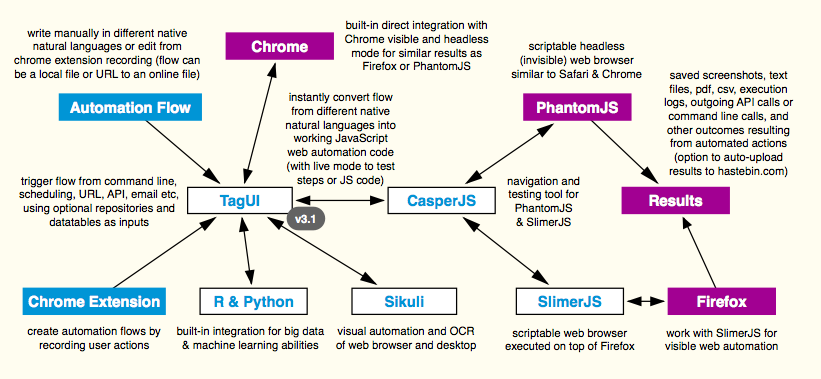
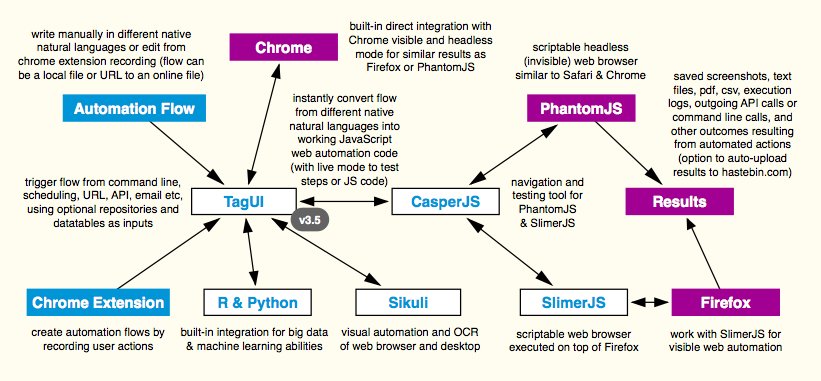
prepping for v3.5 release

diff --git a/README.md b/README.md
@@ -1,4 +1,4 @@
-<img src="https://raw.githubusercontent.com/tebelorg/TagUI/master/src/media/tebel_icon.png" height="111" align="right">
+<img src="https://raw.githubusercontent.com/kelaberetiv/TagUI/master/src/media/tebel_icon.png" height="111" align="right">
 
 # TagUI
 
@@ -7,6 +7,7 @@
 ***TagUI is now maintained by [AI Singapore (aisingapore.org)](https://www.aisingapore.org), a government-funded initiative to build local artificial intelligence capabilities. The intention is to add AI capabilities to TagUI while keeping it open-source and free to use. To get started, check out above hands-on tutorial, Prezi slides, or recorded video at FOSSASIA 2018.***
 
 ### FEATURES
+- RPA / CLI tool for process automation
 - automate Chrome visibly or headlessly
 - visual automation of websites and desktop
 - write in 20+ human languages & JavaScript
@@ -17,7 +18,7 @@
 # Why This
 The goal of UI (user interface) automation is to reproduce cognitive interactions that you have with websites or your desktop, so that your computer can do it for you, base on your schedule or conditions. TagUI helps you rapidly automate your repetitive or time-critical tasks - use cases include process automation, data acquisition and testing of web apps.
 
-Read on for more info or jump right into the [flow samples section](https://github.com/tebelorg/TagUI#flow-samples) to see examples of TagUI automation in natural-language-like syntax. This is a full-feature and free open-source tool, so there's nothing to upgrade to or any paid subscription. To feedback suggestions or bugs, [raise an issue](https://github.com/tebelorg/TagUI/issues) or email ksoh@aisingapore.org.
+Read on for more info or jump right into the [flow samples section](https://github.com/kelaberetiv/TagUI#flow-samples) to see examples of TagUI automation in natural-language-like syntax. This is a full-feature and free open-source tool, so there's nothing to upgrade to or any paid subscription. To feedback suggestions or bugs, [raise an issue](https://github.com/kelaberetiv/TagUI/issues) or email ksoh@aisingapore.org.
 
 ### HOW IT WORKS
 TagUI converts your intentions in different human languages into lines of working JavaScript code that perform UI automation. Under the hood, it uses Chrome DevTools Protocol, Sikuli, CasperJS, PhantomJS & SlimerJS.
@@ -35,21 +36,23 @@ download https://admin.typeform.com/xxx to report.csv
   <summary>
     Click to show powerful and user-friendly features of TagUI that come right out of the box
   </summary>
-  
-  For example, TagUI will instantly convert the automation flow above into 100+ lines of JavaScript code and automatically perform the steps to download a report. Conditions can also be written in natural language for making decisions or checking webpage. No further backend coding or step definition is required. This makes it easy for rapid prototyping, deployment and maintenance of UI automation, whether you are a developer or not. The language engine supports over 20 languages and can be modified or extended easily by users to improve accuracy or add more languages.
 
-  The automation flow can be triggered from scheduling, command line (in natural language), API URL, email etc. Everything happens headlessly in the background without seeing any web browser, so that you can continue using the computer or server uninterrupted. Running on a visible web browser is also supported, using Chrome or Firefox browser (see chrome or firefox option below). API or command calls can be made with a single line to integrate with other services or apps. Continuous integration with CI/CD tools is possible using CasperJS framework and TagUI's Chrome integration.
+  - For example, TagUI will instantly convert the automation flow above into 100+ lines of JavaScript code and automatically perform the steps to download a report. Conditions can also be written in natural language for making decisions or checking webpage. No further backend coding or step definition is required. This makes it easy for rapid prototyping, deployment and maintenance of UI automation, whether you are a developer or not. The language engine supports over 20 languages and can be modified or extended easily by users to improve accuracy or add more languages.
 
-  If you know JavaScript and want to be more expressive, you can even use JavaScript directly in the flow. If not, you will still enjoy friendly but powerful features such as repositories to store your reusable objects, flexible datatables for batch automation, and a Chrome extension which creates automation flows by recording your actions. For rapid prototyping, there's also an interactive live mode for trying out TagUI steps or JavaScript code in real-time. TagUI has built-in integration with Chrome / headless Chrome directly, which also works in live mode.
+  - The automation flow can be triggered from scheduling, command line (in natural language), API URL, email etc. Everything happens headlessly in the background without seeing any web browser, so that you can continue using the computer or server uninterrupted. Running on a visible web browser is also supported, using Chrome or Firefox browser (see chrome or firefox option below). API or command calls can be made with a single line to integrate with other services or apps. Continuous integration with CI/CD tools is possible using CasperJS framework and TagUI's Chrome integration.
 
-  There is automatic waiting for web elements to appear + error-checking + nesting of JavaScript code blocks. Not forgetting the option to run automation flows hosted online or auto-upload run results online for sharing. TagUI also supports visual automation of website and desktop through built-in integration with Sikuli. Instead of using element identifiers, images can be used to identify user interface elements to interact with. TagUI has native integrations with R and Python for big data and machine learning capabilities. R and Python are popular languages with many frameworks and packages in this space.
+  - If you know JavaScript and want to be more expressive, you can even use JavaScript directly in the flow. If not, you will still enjoy friendly but powerful features such as repositories to store your reusable objects, flexible datatables for batch automation, and a Chrome extension which creates automation flows by recording your actions. For rapid prototyping, there's also an interactive live mode for trying out TagUI steps or JavaScript code in real-time. TagUI has built-in integration with Chrome / headless Chrome directly, which also works in live mode.
+
+  - There is automatic waiting for web elements to appear + error-checking + nesting of JavaScript code blocks. Not forgetting the option to run automation flows hosted online or auto-upload run results online for sharing. TagUI also supports visual automation of website and desktop through built-in integration with Sikuli. Instead of using element identifiers, images can be used to identify user interface elements to interact with. TagUI has native integrations with R and Python for big data and machine learning capabilities. R and Python are popular languages with many frameworks and packages in this space.
   
 </details>
   
 # Set Up
-TagUI is in v3.1 - it unzips and runs on macOS, Linux, Windows ([link to release notes](https://github.com/tebelorg/TagUI/releases))
+TagUI is in v3.5 - it unzips and runs on macOS, Linux, Windows ([link to release notes](https://github.com/kelaberetiv/TagUI/releases))
 
-Tip - for [cutting edge](https://github.com/tebelorg/TagUI/compare/v3.1.0...master) version, download [from here](https://github.com/tebelorg/TagUI/archive/master.zip) to overwrite your packaged installation
+***Note - TagUI packaged installation is in the process of being updated from v3.1 to v3.5.***
+
+Tip - for [cutting edge](https://github.com/kelaberetiv/TagUI/compare/v3.5.0...master) version, download [from here](https://github.com/kelaberetiv/TagUI/archive/master.zip) to overwrite your packaged installation
 
 ### PACKAGED INSTALLATION
 Easiest way to use TagUI - no setup is needed, in most environments all required dependencies are packaged in.
@@ -65,7 +68,7 @@ Optional - configure web browser settings in tagui_config.txt, such as browser r
     Click to show potential exceptions that can happen in some environments and their solutions
   </summary>
   
-On some Windows computers, if you see 'MSVCR110.dll is missing' error, install [this from Microsoft website](https://www.microsoft.com/en-us/download/details.aspx?id=30679) (choose vcredist_x86.exe) - this file is required to run the PHP engine. On some newer macOS versions, if you get a 'dyld: Library not loaded' error, [install OpenSSL in this way](https://github.com/kelaberetiv/TagUI/issues/86#issuecomment-372045221). For some flavours of Linux (Ubuntu for example), which do not have PHP pre-installed, google how to install PHP accordingly (Ubuntu for example, apt-get install php).
+  On some Windows computers, if you see 'MSVCR110.dll is missing' error, install [this from Microsoft website](https://www.microsoft.com/en-us/download/details.aspx?id=30679) (choose vcredist_x86.exe) - this file is required to run the PHP engine. On some newer macOS versions, if you get a 'dyld: Library not loaded' error, [install OpenSSL in this way](https://github.com/kelaberetiv/TagUI/issues/86#issuecomment-372045221). For some flavours of Linux (Ubuntu for example), which do not have PHP pre-installed, google how to install PHP accordingly (Ubuntu for example, apt-get install php).
   
 </details>
 
@@ -91,10 +94,19 @@ On some Windows computers, if you see 'MSVCR110.dll is missing' error, install [
 ./tagui flow_filename option(s) for macOS/Linux, tagui flow_filename option(s) for Windows
 ```
 - Flow filename (and its .csv) can be a local file or the URL of an online file
-- Automation flow filename can have no extension, .gui or .txt file extension
+- Automation flow filename can have no extension, .txt or .js or .tagui extension
 - Objects, keywords, datatables can be defined in flow_filename.csv (optional)
 
-Tip - to run tagui from anywhere in macOS/Linux, use ln -sf /full_path/tagui/src/tagui /usr/local/bin/tagui to create symbolic link. to run tagui from anywhere in Windows, add tagui/src [folder to path](http://lmgtfy.com/?q=add+to+path+in+windows). then tagui will be accessible from any folder. if you have issue running visible automation using Firefox/SlimerJS [check this setting](https://docs.slimerjs.org/current/installation.html#using-unstable-version-or-very-old-versions-of-firefox).
+<details>
+  <summary>
+    Click to show info on automation log files, and how to run tagui from any directory
+  </summary>
+  
+  After each automation run, a .log file will be created to store output of the execution, a .js file is the generated JavaScript file, a .raw is the expanded flow after reading in any module sub-scripts that are called in that flow. These files are for user reference purpose and can be helpful in debugging or troubleshooting the automation flow.
+
+  Tip - to run tagui from anywhere in macOS/Linux, use ln -sf /full_path/tagui/src/tagui /usr/local/bin/tagui to create symbolic link. To run tagui from anywhere in Windows, add tagui/src [folder to path](http://lmgtfy.com/?q=add+to+path+in+windows). Then tagui will be accessible from any folder. If you have issue running visible automation using Firefox/SlimerJS [check this setting](https://docs.slimerjs.org/current/installation.html#using-unstable-version-or-very-old-versions-of-firefox).
+  
+</details>
 
 <details>
   <summary>
@@ -134,16 +146,16 @@ Download from [Chrome Web Store](https://chrome.google.com/webstore/detail/tagui
     Click to show details about TagUI Chrome extension and what it can be used for
   </summary>
   
-  TagUI Chrome extension is based on [Resurrectio tool](https://github.com/ebrehault/resurrectio) and records steps such as page navigation, clicking web elements and entering information. To start recording automation flows, click TagUI icon on your Chrome toolbar. Right-click for shortcuts to some TagUI steps, such as capturing webpage screenshot or to note down element identifier.
+  TagUI Chrome extension is based on [Resurrectio tool](https://github.com/ebrehault/resurrectio) and records steps such as page navigation, clicking web elements and entering information. To start recording automation flows, click TagUI icon on your Chrome toolbar. Right-click for shortcuts to some TagUI steps, such as capturing webpage screenshot or to show the element identifier.
 
   The recording is not foolproof (for example, the underlying recording engine cannot capture frames, popup windows or tab key input). It is meant to simplify flow creation with some edits, instead of typing everything manually. [See this video](https://www.youtube.com/watch?v=bFvsc4a8hWQ) for an example of recording sequence of steps, editing for adjustments and playing back the automation.
 
 </details>
 
 ### NATIVE LANGUAGES
-To run TagUI flows in native languages or output flow execution in other languages ([see demo run](https://github.com/tebelorg/TagUI/issues/68#issuecomment-344380657))
-1. set your default flow language with [tagui_language variable](https://github.com/tebelorg/TagUI/blob/master/src/tagui_config.txt) in tagui_config.txt
-2. write automation flow in native language base on [language definition .csv files](https://github.com/tebelorg/TagUI/tree/master/src/languages)
+To run TagUI flows in native languages or output flow execution in other languages ([see demo run](https://github.com/kelaberetiv/TagUI/issues/68#issuecomment-344380657))
+1. set your default flow language with [tagui_language variable](https://github.com/kelaberetiv/TagUI/blob/master/src/tagui_config.txt) in tagui_config.txt
+2. write automation flow in native language base on [language definition .csv files](https://github.com/kelaberetiv/TagUI/tree/master/src/languages)
 3. optionally set tagui_language in flow to any other languages as output language
 
 <details>
@@ -155,7 +167,7 @@ To run TagUI flows in native languages or output flow execution in other languag
   
   TagUI language engine supports over 20 languages and can be modified or extended easily by users to improve accuracy or add more languages. The languages are Bengali, Chinese, English, French, German, Hindi, Hungarian, Indonesian, Italian, Japanese, Korean, Polish, Portuguese, Romanian, Russian, Serbian, Spanish, Tagalog, Tamil, Thai, Vietnamese. This starting set is partly chosen base on the [list of most commonly used languages](https://www.babbel.com/en/magazine/the-10-most-spoken-languages-in-the-world), partly from the countries around where I'm from (Singapore), and partly from countries with a lot of developers.
 
-  If your native language is not in the above list, you can also automate building a new native language definition by using this language [build automation flow](https://github.com/tebelorg/TagUI/blob/master/src/languages/build) (src/languages/build) that self-builds the vocabulary set using Google Translate. To do that, update [build.csv](https://github.com/tebelorg/TagUI/blob/master/src/languages/build.csv) with the languages that you want to build and run `tagui build using chrome` in src/languages folder. Use quiet option to hide the verbose automation output. The generated files are named as their 2-character language codes to prevent overwriting existing language definitions by accident. To use the generated .csv files, rename them to their full language names. See [full list of languages possible](https://cloud.google.com/translate/docs/languages) to be generated by Google Translate.
+  If your native language is not in the above list, you can also automate building a new native language definition by using this language [build automation flow](https://github.com/kelaberetiv/TagUI/blob/master/src/languages/build) (src/languages/build) that self-builds the vocabulary set using Google Translate. To do that, update [build.csv](https://github.com/kelaberetiv/TagUI/blob/master/src/languages/build.csv) with the languages that you want to build and run `tagui build using chrome` in src/languages folder. Use quiet option to hide the verbose automation output. The generated files are named as their 2-character language codes to prevent overwriting existing language definitions by accident. To use the generated .csv files, rename them to their full language names. See [full list of languages possible](https://cloud.google.com/translate/docs/languages) to be generated by Google Translate.
 
   Most of the language definitions are automatically self-built using Google Translate (except english.csv and chinese.csv), and would be wrong without understanding vocabulary used in UI interaction context. Native language users can update the language definition csv themselves and are welcome to submit PRs with correct words to be used. Some languages are very different from English structure (for eg, written from right to left, different order of adjective and noun) and would be impossible to use correctly in TagUI.
 
@@ -183,21 +195,41 @@ TagUI has built-in integration with R - an open-source software environment for 
     Click to show how to use r step in your automation flow to send and receive data from R frameworks
   </summary>
   
-In your automation flow, use the r step followed by the R commands to be executed, separated by `;`. You can then use the `cat()` command in R to output the result you want to be accessible in your automation flow as `r_result` variable. For a super basic example, below steps in your TagUI automation flow will output 3. If the result is JSON data, the JSON object `r_json` will be created for easy access to JSON data elements. If not, `r_json` will be null.
+  In your automation flow, use the r step followed by the R commands to be executed, separated by `;`. You can then use the `cat()` command in R to output the result you want to be accessible in your automation flow as `r_result` variable. For a super basic example, below steps in your TagUI automation flow will output 3. If the result is JSON data, the JSON object `r_json` will be created for easy access to JSON data elements. If not, `r_json` will be null.
+  
+  ```
+  // using r step to denote R code, and getting back output from r_result
+  r a=1;b=2
+  r c=a+b
+  r cat(c)
+  echo r_result
+  
+  // alternatively, you can use r begin and r finish to denote a R code block
+  r begin
+  a=1;b=2
+  c=a+b
+  cat(c)
+  r finish
+  echo r_result
+  
+  // an example of passing dynamically generated variables to R integraton
+  phone = 1234567
+  name = 'donald duck'
+  r_step('phone = ' + phone)
+  r_step('name = "' + name + '"')
 
-```
-r a=1;b=2
-r c=a+b
-r cat(c)
-echo r_result
-```
+  r cat(name)
+  echo r_result
+  r cat(phone)
+  echo r_result
+  ```
 
-You can also use the `source()` command in R to run R scripts. For examples of using R for machine learning, check out this [essentials of machine learning algorithms](https://www.analyticsvidhya.com/blog/2017/09/common-machine-learning-algorithms/) article or this [guerilla guide to machine learning](https://www.kdnuggets.com/2017/05/guerrilla-guide-machine-learning-r.html) video series.
+  You can also use the `source()` command in R to run R scripts. For examples of using R for machine learning, check out this [essentials of machine learning algorithms](https://www.analyticsvidhya.com/blog/2017/09/common-machine-learning-algorithms/) article or this [guerilla guide to machine learning](https://www.kdnuggets.com/2017/05/guerrilla-guide-machine-learning-r.html) video series.
 
 </details>
 
 ### PYTHON INTEGRATION
-TagUI has built-in integration with Python v2.7 - a programming language with many popular frameworks for big data and machine learning. The py step can be used to run commands in Python and retrieve the output of those commands. To use Python integration in TagUI, first [download Python for your OS](https://www.python.org/). macOS and Linux normally come pre-installed with Python. Note that Python v3 is not backward-compatible with Python v2.7, the current and more widely used version.
+TagUI has built-in integration with Python (works out of the box for both v2 & v3) - a programming language with many popular frameworks for big data and machine learning. The py step can be used to run commands in Python and retrieve the output of those commands. To use Python integration in TagUI, first [download Python for your OS](https://www.python.org/). macOS and Linux normally come pre-installed with Python.
 
 <details>
   <summary>
@@ -207,9 +239,29 @@ TagUI has built-in integration with Python v2.7 - a programming language with ma
   In your automation flow, use the py step followed by the Python commands to be executed, separated by `;`. You can then use the `print` command in Python to output the result you want to be accessible in your automation flow as `py_result` variable. For a super basic example, below steps in your TagUI automation flow will output 3. If the result is JSON data, the JSON object `py_json` will be created for easy access to JSON data elements. If not, `py_json` will be null.
 
   ```
+  // using py step to denote Python code, and getting back output from py_result
   py a=1;b=2
   py c=a+b
-  py print c
+  py print(c)
+  echo py_result
+  
+  // alternatively, you can use py begin and py finish to denote a Python code block
+  py begin
+  a=1;b=2
+  c=a+b
+  print(c)
+  py finish
+  echo py_result
+  
+  // an example of passing dynamically generated variables to Python integraton
+  phone = 1234567
+  name = 'donald duck'
+  py_step('phone = ' + phone)
+  py_step('name = "' + name + '"')
+
+  py print(name)
+  echo py_result
+  py print(phone)
   echo py_result
   ```
   You can also use the `execfile()` command in Python to run Python scripts. For examples of using Python for machine learning, check out this [essentials of machine learning algorithms](https://www.analyticsvidhya.com/blog/2017/09/common-machine-learning-algorithms/) article or this article on [Python deep learning frameworks](https://www.kdnuggets.com/2017/02/python-deep-learning-frameworks-overview.html).
@@ -226,35 +278,35 @@ TagUI scripts are already in natural-language-like syntax to convert to JavaScri
   
   The commands erina (macOS/Linux) and erina.cmd (Windows) can be renamed to some other name you like. The commands can be set up in the same way as the tagui / tagui.cmd above to be accessible from any folder. The command basically interprets this general syntax `erina single-word-action fillers options/parameters fillers single-or-multi-word-context` to call run the corresponding automation flow `action_context` with `options/parameters`.
 
-  Also, adding `using chrome` / `using headless` / `using firefox` at the end will let it run using the respective browsers. The default location where automation flows are searched for is in tagui/flows folder and can be changed in tagui_helper.php. Filler words (is, are, was, were, my, me) are ignored as they don't convey important information ([more design info](https://github.com/tebelorg/TagUI/issues/44#issuecomment-321108786)).
+  Also, adding `using chrome` / `using headless` / `using firefox` at the end will let it run using the respective browsers. The default location where automation flows are searched for is in tagui/flows folder and can be changed in tagui_helper.php. Filler words (is, are, was, were, my, me) are ignored as they don't convey important information ([more design info](https://github.com/kelaberetiv/TagUI/issues/44#issuecomment-321108786)).
 
 </details>
 
 ### FLOW SAMPLES
-Following automation flow samples ([tagui/src/samples folder](https://github.com/tebelorg/TagUI/tree/master/src/samples)) are included with TagUI
+Following automation flow samples ([tagui/src/samples folder](https://github.com/kelaberetiv/TagUI/tree/master/src/samples)) are included with TagUI
 
 Flow Sample |Purpose
 :-----------|:------
-[1_yahoo](https://github.com/tebelorg/TagUI/blob/master/src/samples/1_yahoo)|searches github on Yahoo and captures screenshot of results
-[2_twitter](https://github.com/tebelorg/TagUI/blob/master/src/samples/2_twitter)|goes to a Twitter page and saves some profile information
-[3_github](https://github.com/tebelorg/TagUI/blob/master/src/samples/3_github)|goes to a GitHub page and downloads the repository file
-[4_conditions](https://github.com/tebelorg/TagUI/blob/master/src/samples/4_conditions)|goes through examples of using conditions in natural language
-[5_repositories](https://github.com/tebelorg/TagUI/blob/master/src/samples/5_repositories)|shows using repositories on Russian social media site VK.com
-[6_datatables](https://github.com/tebelorg/TagUI/tree/master/src/samples/6_datatables)|set of flows uses datatables to retrieve and act on GitHub info
-[7_testing](https://github.com/tebelorg/TagUI/blob/master/src/samples/7_testing)|shows how to use check step assertions for CI/CD integration
-[8_hastebin](https://github.com/tebelorg/TagUI/blob/master/src/samples/8_hastebin)|used by upload option to upload flow result to hastebin.com
-[9_misc](https://github.com/tebelorg/TagUI/blob/master/src/samples/9_misc)|shows how to use steps popup, frame, dom, js, { and } block
+[1_yahoo](https://github.com/kelaberetiv/TagUI/blob/master/src/samples/1_yahoo)|searches github on Yahoo and captures screenshot of results
+[2_twitter](https://github.com/kelaberetiv/TagUI/blob/master/src/samples/2_twitter)|goes to a Twitter page and saves some profile information
+[3_github](https://github.com/kelaberetiv/TagUI/blob/master/src/samples/3_github)|goes to a GitHub page and downloads the repository file
+[4_conditions](https://github.com/kelaberetiv/TagUI/blob/master/src/samples/4_conditions)|goes through examples of using conditions in natural language
+[5_repositories](https://github.com/kelaberetiv/TagUI/blob/master/src/samples/5_repositories)|shows using repositories on Russian social media site VK.com
+[6_datatables](https://github.com/kelaberetiv/TagUI/tree/master/src/samples/6_datatables)|set of flows uses datatables to retrieve and act on GitHub info
+[7_testing](https://github.com/kelaberetiv/TagUI/blob/master/src/samples/7_testing)|shows how to use check step assertions for CI/CD integration
+[8_hastebin](https://github.com/kelaberetiv/TagUI/blob/master/src/samples/8_hastebin)|used by upload option to upload flow result to hastebin.com
+[9_misc](https://github.com/kelaberetiv/TagUI/blob/master/src/samples/9_misc)|shows how to use steps popup, frame, dom, js, { and } block
 
 # Cheat Sheet
 ### AUTOMATION WORKFLOW
 - What happens behind the scenes when you run an automation flow
 
-![TagUI Flowchart](https://raw.githubusercontent.com/tebelorg/TagUI/master/src/media/flowchart.png)
+![TagUI Flowchart](https://raw.githubusercontent.com/kelaberetiv/TagUI/master/src/media/flowchart.png)
 
 ### STEPS DESCRIPTION
 - TagUI auto-waits for a webpage element to appear and interacts with it as soon as it appears
 - Element identifier can be auto-recorded using TagUI Chrome extension, or [found from web browser](https://help.surveygizmo.com/help/how-to-find-element-ids-to-use-with-javascript)
-- Identifiers help to pinpoint which webpage elements you want to interact with ([examples in flow samples](https://github.com/tebelorg/TagUI#flow-samples))
+- Identifiers help to pinpoint which webpage elements you want to interact with ([examples in flow samples](https://github.com/kelaberetiv/TagUI#flow-samples))
 - TagUI auto-selects provided identifier in this order - xpath, css, id, name, class, title, aria-label, text(), href
 
 Basic Step|Parameters (separator in bold)|Purpose
@@ -274,8 +326,9 @@ write|text and variables ***to*** optional filename|append text/variables to fil
 snap|element (page = webpage) ***to*** optional filename|save screenshot to file
 snap (pdf)|page ***to*** filename.pdf (headless Chrome / PhantomJS)|save webpage to basic pdf
 table|element (XPath selector only) ***to*** optional filename.csv|save basic html table to csv
+tagui|relative or absolute filename (see MODULES section)|run another tagui flow
 
-Tip - to use variables where text is expected, '+variable+' can be used. xpath is an expressive way to identify web elements. if you know xpath and use xpath for element identifier, use double quotes for text //\*[@title="Login"]
+Tip - to use variables where text is expected, '+variable+' can be used. XPath is an expressive way to identify web elements. If you know xpath and use xpath for element identifier, use double quotes for text //\*[@title="Login"]
 
 Pro Step|Parameters (separator in bold)|Purpose
 :-------|:-----------------------------|:------
@@ -299,7 +352,21 @@ timeout|time in seconds before step errors out|change auto-wait timeout
 variable_name| = value (for text, put in quotes, use + to concat)|define variable variable_name
 // (on new line)|user comments (ignored during execution)|add user comments
 
-Tip - for headless and visible Chrome, file downloads can be done using normal webpage interaction or specifying the URL as a navigation flow step. for Firefox and PhantomJS, the download and receive step can be used. as TagUI default execution context is local, to run javascript on webpage dom (eg document.querySelector) use dom step. set dom_json variable to pass a variable for use in dom step. or dom_json = {tmp_number: phone, tmp_text: name} to pass multiple variables for use in dom step (dom_json.tmp_number and dom_json.tmp_text)
+Tip - for headless and visible Chrome, file downloads can be done using normal webpage interaction or specifying the URL as a navigation flow step. For Firefox and PhantomJS, the download and receive step can be used. As TagUI default execution context is local, to run javascript on webpage dom (eg document.querySelector) use dom step. Set dom_json variable to pass a variable for use in dom step. Or dom_json = {tmp_number: phone, tmp_text: name} to pass multiple variables for use in dom step (dom_json.tmp_number and dom_json.tmp_text).
+  
+For steps run, dom, js, r, py, vision, instead of typing the step and the command, you can use something like py begin followed by many lines of py code, and end with py finish to denote an entire code block. This saves typing the step repeatedly for a large integration code block. For steps r, py, vision, the helper functions r_step(), py_step(), vision_step() can be used to pass dynamic variables to those integrations. Below is an example for py step for passing dynamically generated varibles from TagUI to Python integration.
+
+```
+phone = 1234567
+name = 'donald duck'
+py_step('phone = ' + phone)
+py_step('name = "' + name + '"')
+
+py print(name)
+echo py_result
+py print(phone)
+echo py_result
+```
 
 ### CONDITIONS EXAMPLES
 - Conditions can be expressed in natural language (optional brackets) or [JavaScript](https://www.w3schools.com/js/)
@@ -325,7 +392,16 @@ less than or equal to / lesser than or equal to / lower than or equal to|<=
 and|&&
 or|&#124;&#124;
 
-Tip - use { and } step to define step/code blocks for powerful repetitive automation with for loop. when using contain / equal, you can write with or without s behind. you can use if present('element') to check if the element exists, before doing the step on next line. other useful functions include visible('element'), count('element'), url(), title(), text(), timer(), which can be used in conditions and steps such as check or echo
+Tip - use { and } step to define step/code blocks for powerful repetitive automation with for loop. When using contain / equal, you can write with or without s behind. You can use if present('element') to check if the element exists, before doing the step on next line. Other useful functions include visible('element'), count('element'), url(), title(), text(), timer(), which can be used in conditions and steps such as check or echo.
+
+### MODULES
+- You can call other TagUI automation flows within an automation flow file
+- This lets you reuse and compound automation scripts to build complex flows
+- Sub-scripts can be multiple levels deep and be of any filename or extension
+- To call sub-scripts, use tagui step followed by absolute or relative filename
+- For example, tagui login_crm or tagui crm.login or tagui outlook.sendmail
+
+Tip - tagui step works by expanding content of a sub-script into the flow, at the line where tagui step is used to call the sub-script. Thus variables that are accessible from the parent flow file will also be accessible from the sub-script.
 
 ### REPOSITORIES
 - Repositories help to make objects or steps reusable and improve readability
@@ -340,7 +416,7 @@ email|user-email-textbox
 create account|btn btn--green btn-xl signup-btn
 type email|type \`email\` as user@gmail.com
 
-Tip - be sure to include the header row, because the first row will be assumed as header and ignored. If your flow file ends with extension .txt or .gui the repository file extension will be .txt.csv or .gui.csv respectively.
+Tip - be sure to include the header row, because the first row will be assumed as header and ignored. If your flow file ends with an extension (.txt or .js or .tagui), the repository file extension will be .txt.csv or .js.csv or .tagui.csv respectively.
 
 ### DATATABLES
 - Datatables extend the power of repositories files to manage batch automation
@@ -358,7 +434,7 @@ currency-pair|USDSGD|USDJPY|EURUSD
 size|10000|1000|100000
 direction|BUY|SELL|BUY
 
-Tip - be sure to include the header row, because the first row will be assumed as header and ignored. If your flow file ends with extension .txt or .gui the datatable file extension will be .txt.csv or .gui.csv respectively.
+Tip - be sure to include the header row, because the first row will be assumed as header and ignored. If your flow file ends with an extension (.txt or .js or .tagui), the datatable file extension will be .txt.csv or .js.csv or .tagui.csv respectively.
  
 # Developers Reference
 TagUI is a young tool and it tries to do the task of automating UI interactions very well. It's designed to make prototyping, deployment and maintenance of UI automation easier by minimizing iteration time for each phase. Originally developed by a test automation engineer to avoid writing chunks of code when automating web interactions.
@@ -402,13 +478,13 @@ TagUI is a young tool and it tries to do the task of automating UI interactions 
   
   TagUI has built-in integration with Chrome web browser to run web automation in visible or headless mode. It uses a websocket connection to directly communicate automation JavaScript code and information to Chrome.
 
-  To develop new custom methods for Chrome integration, see this [TagUI issue](https://github.com/tebelorg/TagUI/issues/24#issuecomment-312361674) and [tagui_header.js](https://github.com/tebelorg/TagUI/blob/master/src/tagui_header.js) for examples of websocket calls from TagUI to Chrome (via Chrome DevTools Protocol). The function `chrome_step(method, params)` sends message to Chrome and returns the response. You will see examples from simple websocket calls such as getting webpage title to stacked ones such as handling of frame or popup window. To tweak how TagUI launches / kills Chrome and the integration PHP process, see TagUI runner script for [macOS/Linux](https://github.com/tebelorg/TagUI/blob/master/src/tagui) or [Windows](https://github.com/tebelorg/TagUI/blob/master/src/tagui.cmd). 
+  To develop new custom methods for Chrome integration, see this [TagUI issue](https://github.com/kelaberetiv/TagUI/issues/24#issuecomment-312361674) and [tagui_header.js](https://github.com/kelaberetiv/TagUI/blob/master/src/tagui_header.js) for examples of websocket calls from TagUI to Chrome (via Chrome DevTools Protocol). The function `chrome_step(method, params)` sends message to Chrome and returns the response. You will see examples from simple websocket calls such as getting webpage title to stacked ones such as handling of frame or popup window. To tweak how TagUI launches / kills Chrome and the integration PHP process, see TagUI runner script for [macOS/Linux](https://github.com/kelaberetiv/TagUI/blob/master/src/tagui) or [Windows](https://github.com/kelaberetiv/TagUI/blob/master/src/tagui.cmd). 
 
   Probably the best way to see the websocket communication in action is to enter TagUI live mode (add live step in your automation flow), then `tail -f tagui_chrome.log` in another terminal to see the Chrome DevTools Protocol messages going to and fro as you enter TagUI steps or JavaScript code. If you are running on Windows, you can click on the PHP process window directly to see the messages.
 
   At run-time TagUI will start a PHP thread in the background to manage the integration with Chrome for concurrent communication. The [Textalk PHP websocket](https://github.com/Textalk/websocket-php) is used as it is super-light and most importantly, it works even without any update for 2 years. The normal approach to integrate with Chrome is through [chrome-remote-interface](https://github.com/cyrus-and/chrome-remote-interface) project or tools such as [Puppeteer](https://github.com/GoogleChrome/puppeteer) and [friends](https://medium.com/@kensoh/chromeless-chrominator-chromy-navalia-lambdium-ghostjs-autogcd-ef34bcd26907). However, that approach introduces Node.js dependency which means users without a Node.js development environment cannot run TagUI with Chrome. Outside of JavaScript ecosystem, there are also tools like [chromedp in Go language](https://github.com/knq/chromedp) to integrate with Chrome.
 
-  In order to retain TagUI unzip and run functionality, the approach of launching a [separate PHP thread](https://github.com/tebelorg/TagUI/blob/master/src/tagui_chrome.php) is chosen. Since the TagUI [natural language interpreter](https://github.com/tebelorg/TagUI/blob/master/src/tagui_parse.php) is already written in PHP, there is no new dependency. Also, doing websocket communication within the single-threaded JavaScript environment used by CasperJS is not possible as it involves a redesign of fundamental CasperJS methods such as casper.exists to support async/await or use JavaScript promises which are not yet supported by CasperJS (for compatibility with [latest PhantomJS](https://github.com/casperjs/casperjs/issues/1663#issuecomment-285952446)).
+  In order to retain TagUI unzip and run functionality, the approach of launching a [separate PHP thread](https://github.com/kelaberetiv/TagUI/blob/master/src/tagui_chrome.php) is chosen. Since the TagUI [natural language interpreter](https://github.com/kelaberetiv/TagUI/blob/master/src/tagui_parse.php) is already written in PHP, there is no new dependency. Also, doing websocket communication within the single-threaded JavaScript environment used by CasperJS is not possible as it involves a redesign of fundamental CasperJS methods such as casper.exists to support async/await or use JavaScript promises which are not yet supported by CasperJS (for compatibility with [latest PhantomJS](https://github.com/casperjs/casperjs/issues/1663#issuecomment-285952446)).
 
   Like chrome-remote-interface, TagUI communicates with Chrome through [Chrome DevTools Protocol](https://chromedevtools.github.io/devtools-protocol/). The protocol is primarily designed for debugging the web browser instead of web automation, so many methods are still in experimental status. However, the API is stable enough for TagUI steps to work with Chrome. When chrome or headless option is used, TagUI replaces CasperJS methods it uses with custom methods to talk to Chrome instead of PhantomJS. When firefox option is used or by default, TagUI doesn't invoke custom methods and PHP process.
   
@@ -420,7 +496,7 @@ TagUI is a young tool and it tries to do the task of automating UI interactions 
     Click to show details of how TagUI can be used for test automation with integration to CI tools
   </summary>
   
-  The check step allows easy testing of conditions. When the test option is used, test assertions are automatically performed for check steps. This lets CasperJS framework output a XUnit XML file, which can be used for CI/CD integration with tools such as Jenkins. Below are examples of check steps, more examples in [sample flow 7_testing](https://github.com/tebelorg/TagUI/blob/master/src/samples/7_testing).
+  The check step allows easy testing of conditions. When the test option is used, test assertions are automatically performed for check steps. This lets CasperJS framework output a XUnit XML file, which can be used for CI/CD integration with tools such as Jenkins. Below are examples of check steps, more examples in [sample flow 7_testing](https://github.com/kelaberetiv/TagUI/blob/master/src/samples/7_testing).
 
   ```
   // check whether the element search-buttons exists
@@ -445,7 +521,7 @@ TagUI is a young tool and it tries to do the task of automating UI interactions 
   test.assertSelectorHasText(tx('header'), 'Interface automation','Check for phrase in header element');
   ```
 
-  In the event you get an error saying that it cannot understand the step for your JavaScript line, raise an issue or modify the source code ([tagui_parse.php](https://github.com/tebelorg/TagUI/blob/master/src/tagui_parse.php) is where interpretation of natural language to CasperJS JavaScript code takes place). Alternatively, use step js to explicitly declare that whatever follows on that line is JavaScript code and ensure that the line is not treated as a TagUI step.
+  In the event you get an error saying that it cannot understand the step for your JavaScript line, raise an issue or modify the source code ([tagui_parse.php](https://github.com/kelaberetiv/TagUI/blob/master/src/tagui_parse.php) is where interpretation of natural language to CasperJS JavaScript code takes place). Alternatively, use step js to explicitly declare that whatever follows on that line is JavaScript code and ensure that the line is not treated as a TagUI step.
 
 </details>
 
